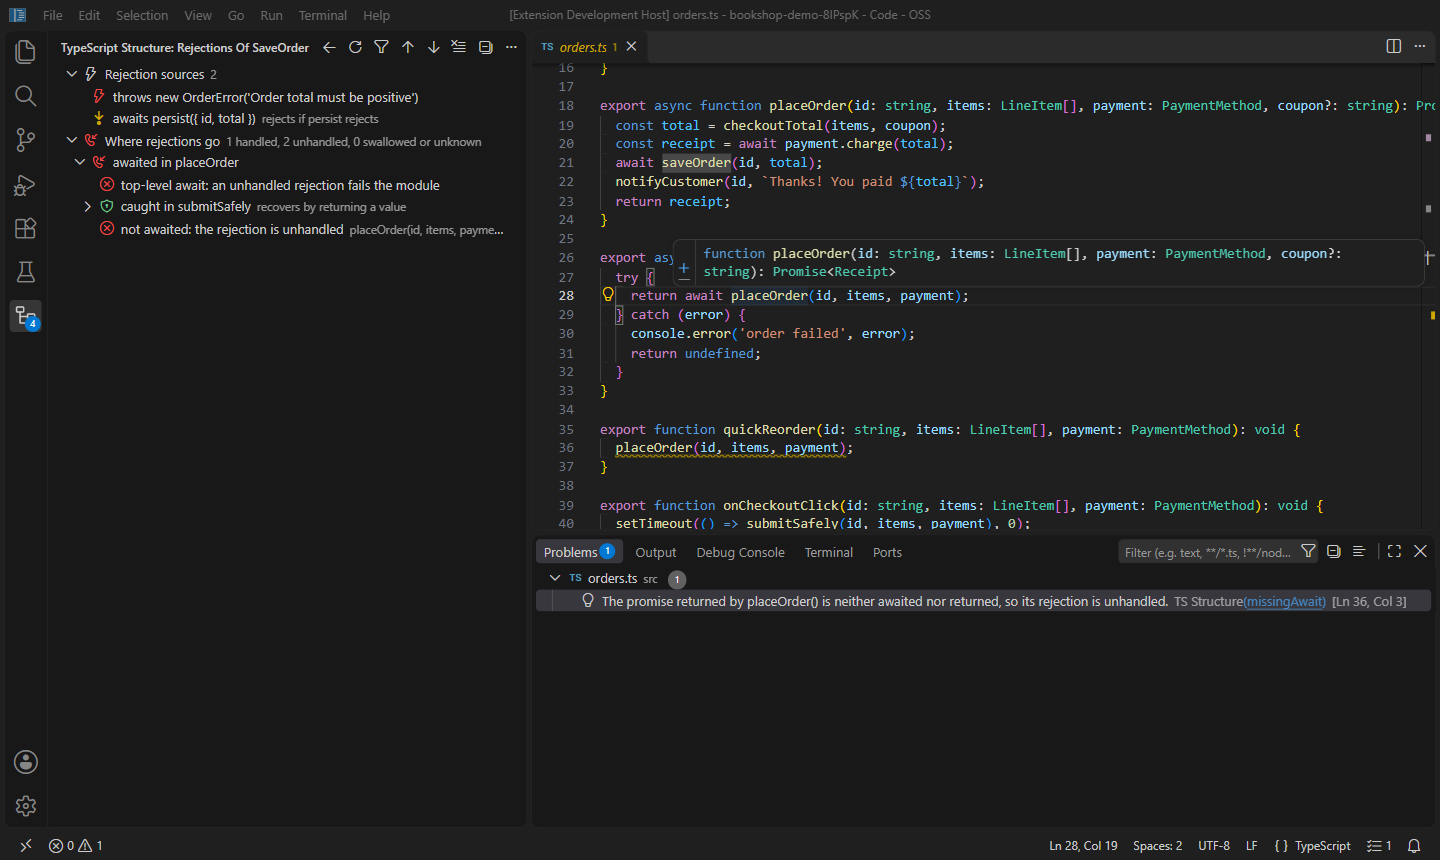
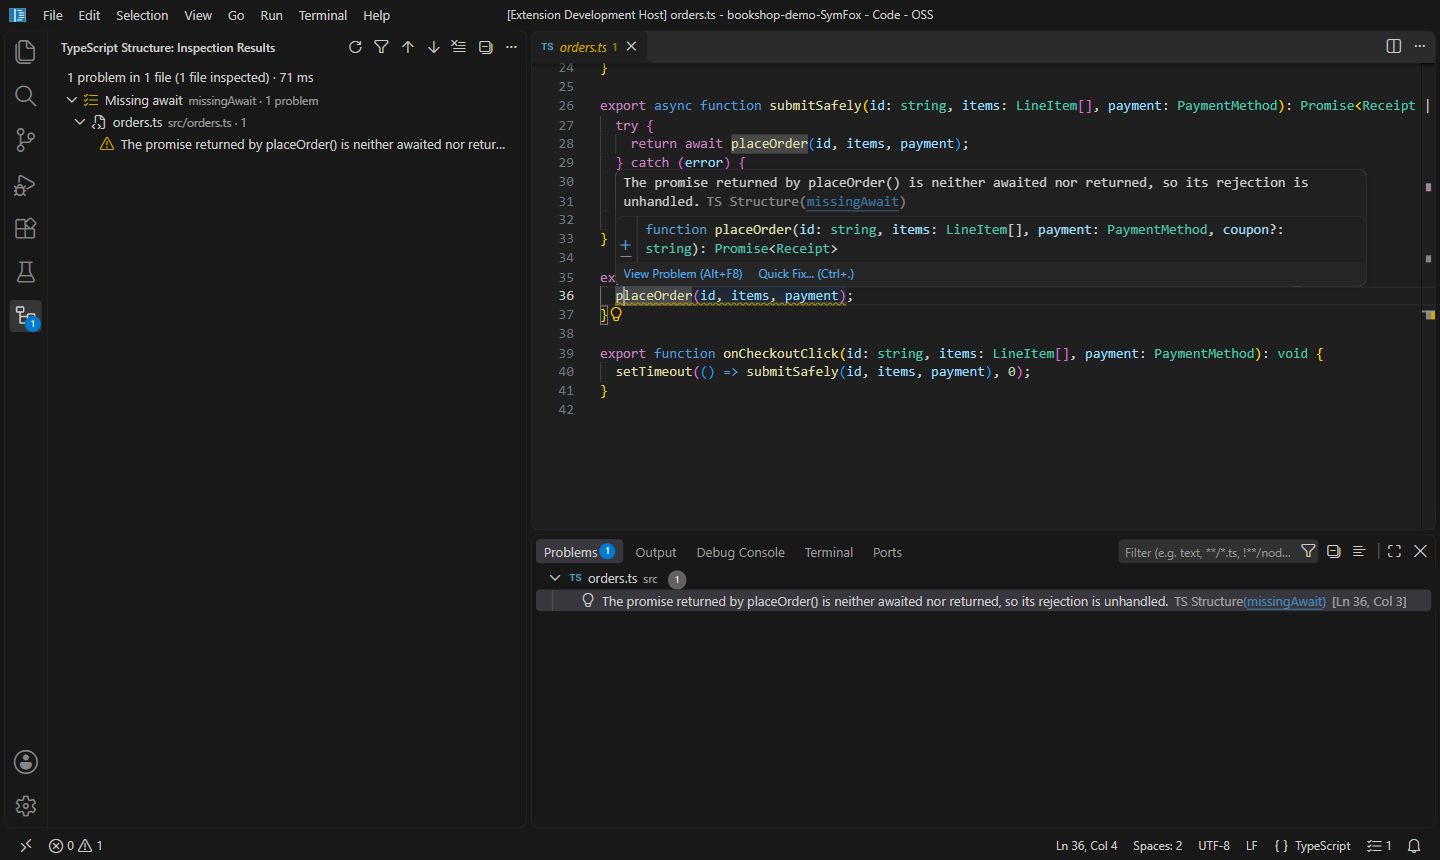
Guide: Missing Await, with a screenshot
The screenshot scene now hovers the dropped call itself and shows the Inspect Code report.

diff --git a/README.md b/README.md
@@ -306,6 +306,20 @@ Every analysis can be started three ways: from the editor's right-click menu und
    - a green *handled* row.
 5. **Unhandled**, at the top, lists every unhandled end with the callers it passes through. Click a row to go to the call that drops the rejection, or click its lightbulb button (**Show Fixes**) to open the fixes there: add `await`, mark it intentionally ignored with `void`, or wrap it.
 
+### Missing Await (live inspection)
+
+![quickReorder calls placeOrder without awaiting it: a warning squiggle, its hover, the Problems panel and the Inspect Code report](docs/images/missing-await.png)
+
+1. Nothing to run: the inspection checks every TypeScript and JavaScript file that is visible in an editor. Open `src/orders.ts` in the demo.
+2. A dropped promise is underlined, here `placeOrder(id, items, payment);` in `quickReorder`. Hover it to read why. The message names the original function when the promise comes through wrappers.
+3. Press `Ctrl+.` on the underline for fixes:
+   - **Add await**, in an async function;
+   - **Mark as intentionally not awaited (void)**;
+   - **Trace where this promise's rejection goes…**, which opens the Promise Rejection Analyzer;
+   - suppress the warning for the line or the file.
+4. The Problems panel (`Ctrl+Shift+M`) lists the findings, and the status bar shows the count for the active file.
+5. To check the whole project, run **Inspect Code…** and choose the project. Results open in the TypeScript Structure view, and fixable rows have an **Apply Fix** button.
+
 ## Test Impact Analysis
 
 ### Usage
